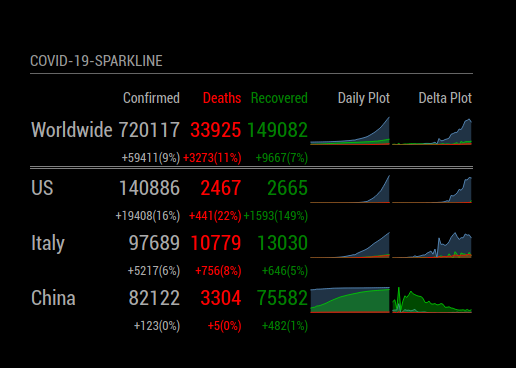
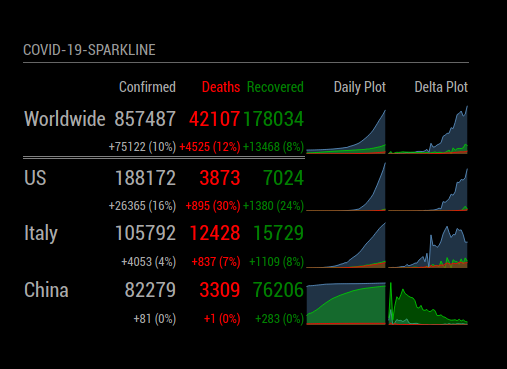
added space between value and percentage, also used rowspan to get slightly larger plots when the delta row is available.

diff --git a/MMM-COVID19-SPARKLINE.js b/MMM-COVID19-SPARKLINE.js
@@ -402,17 +402,17 @@ Module.register("MMM-COVID19-SPARKLINE", {
       confirmedCell.className = 'number confirmed ' + this.config.infoRowClass
       confirmedCell.innerHTML = confirmed
       d_confirmedCell.className = 'number confirmed micro'
-      d_confirmedCell.innerHTML = this.decorateNumber(d_confirmed) + this.getPercentageChg(confirmed/(confirmed-d_confirmed));
+      d_confirmedCell.innerHTML = this.decorateNumber(d_confirmed) + " " + this.getPercentageChg(confirmed/(confirmed-d_confirmed));
 
       deathsCell.className = 'number deaths ' + this.config.infoRowClass
       deathsCell.innerHTML = deaths
       d_deathsCell.className = 'number deaths micro'
-      d_deathsCell.innerHTML = this.decorateNumber(d_deaths) + this.getPercentageChg(deaths/(deaths-d_deaths));
+      d_deathsCell.innerHTML = this.decorateNumber(d_deaths) + " " + this.getPercentageChg(deaths/(deaths-d_deaths));
 
       recoveredCell.className = 'number recovered ' + this.config.infoRowClass
       recoveredCell.innerHTML = recovered
       d_recoveredCell.className = 'number recovered micro'
-      d_recoveredCell.innerHTML = this.decorateNumber(d_recovered) + this.getPercentageChg(recovered/(recovered-d_recovered));
+      d_recoveredCell.innerHTML = this.decorateNumber(d_recovered) + " " + this.getPercentageChg(recovered/(recovered-d_recovered));
 
       graphCell.className = ''
       graphCell.innerHTML = ''
@@ -437,14 +437,16 @@ Module.register("MMM-COVID19-SPARKLINE", {
       if (this.config.sparklines == true) {
         //render daily plot
         graphCell.appendChild(this.getChart(globalStats.worldwide));
+        if (this.config.showDelta == true) {
+          graphCell.setAttribute("rowspan", "2");
+        }
         worldRow.appendChild(graphCell);
-        d_worldRow.appendChild(d_padCell);
         //render daily delta plot
         d_graphCell.appendChild(this.getChart(globalStats.worldwide, true));
         //put the d_graph at the end of the primary row to save space
         if (this.config.showDelta == true) {
+          d_graphCell.setAttribute("rowspan", "2");
           worldRow.appendChild(d_graphCell);
-          d_worldRow.appendChild(d_padCell.cloneNode(true));
         }
       }
 
@@ -494,17 +496,17 @@ Module.register("MMM-COVID19-SPARKLINE", {
         confirmedCell.className = 'number confirmed ' + this.config.infoRowClass;
         confirmedCell.innerHTML = confirmed;
         d_confirmedCell.className = 'number confirmed micro';
-        d_confirmedCell.innerHTML = this.decorateNumber(d_confirmed) + this.getPercentageChg(confirmed/(confirmed-d_confirmed));
+        d_confirmedCell.innerHTML = this.decorateNumber(d_confirmed) + " " + this.getPercentageChg(confirmed/(confirmed-d_confirmed));
 
         deathsCell.className = 'number deaths ' + this.config.infoRowClass;
         deathsCell.innerHTML = deaths;
         d_deathsCell.className = 'number deaths micro';
-        d_deathsCell.innerHTML = this.decorateNumber(d_deaths) + this.getPercentageChg(deaths/(deaths-d_deaths));
+        d_deathsCell.innerHTML = this.decorateNumber(d_deaths) + " " + this.getPercentageChg(deaths/(deaths-d_deaths));
 
         recoveredCell.className = 'number recovered ' + this.config.infoRowClass;
         recoveredCell.innerHTML = recovered;
         d_recoveredCell.className = 'number recovered micro';
-        d_recoveredCell.innerHTML = this.decorateNumber(d_recovered) + this.getPercentageChg(recovered/(recovered-d_recovered));
+        d_recoveredCell.innerHTML = this.decorateNumber(d_recovered) + " " + this.getPercentageChg(recovered/(recovered-d_recovered));
 
         graphCell.className = 'sparkline';
         graphCell.innerHTML = '';
@@ -534,15 +536,17 @@ Module.register("MMM-COVID19-SPARKLINE", {
           var summaryrow = this.getSummaryRow(countryName);
           //render daily chart
           graphCell.appendChild(this.getChart(summaryrow));
+          if (this.config.showDelta == true) {
+            graphCell.setAttribute("rowspan", "2");
+          }
           countryRow.appendChild(graphCell);
-          d_countryRow.appendChild(d_padCell);
 
           //render daily delta chart
           d_graphCell.appendChild(this.getChart(summaryrow, true));
 
           if (this.config.showDelta == true) {
+            d_graphCell.setAttribute("rowspan", "2");
             countryRow.appendChild(d_graphCell);  //put delta graph at end of normal row for space savings
-            d_countryRow.appendChild(d_padCell.cloneNode(true));  //need a padding cell for this graph if deltas are shown
           }
         }        
 

diff --git a/README.md b/README.md
@@ -10,7 +10,7 @@ This work is a combination of two other plugins:
 * [MMM-COVID-19](https://github.com/eouia/MMM-COVID-19) by Seongnoh Sean Yi
   * This plugin uses GitHub as a backend, the same data source that is used by the famous [Johns Hopkins Map](https://coronavirus.jhu.edu/map.html).  I prefer the use of this data source.
 
-At the end of the day, I decided to merge the two appraoches to get what I wanted.
+At the end of the day, I decided to merge the two appraoches to get what I wanted, adding the use of the awesome highcharts.js to get sparkline plots after the data.
 
 ![Example](images/screenshot.png)
 
@@ -72,7 +72,7 @@ The following properties can be configured:
         worldStats: true,
         sparklines: true,
         sparklineWidth: 100,
-        sparklineHeight: 35,
+        sparklineHeight: 55,
         sparklineDays: 30,
         sortby: "confirmed",
         columns: ["confirmed", "deaths", "recovered"],
